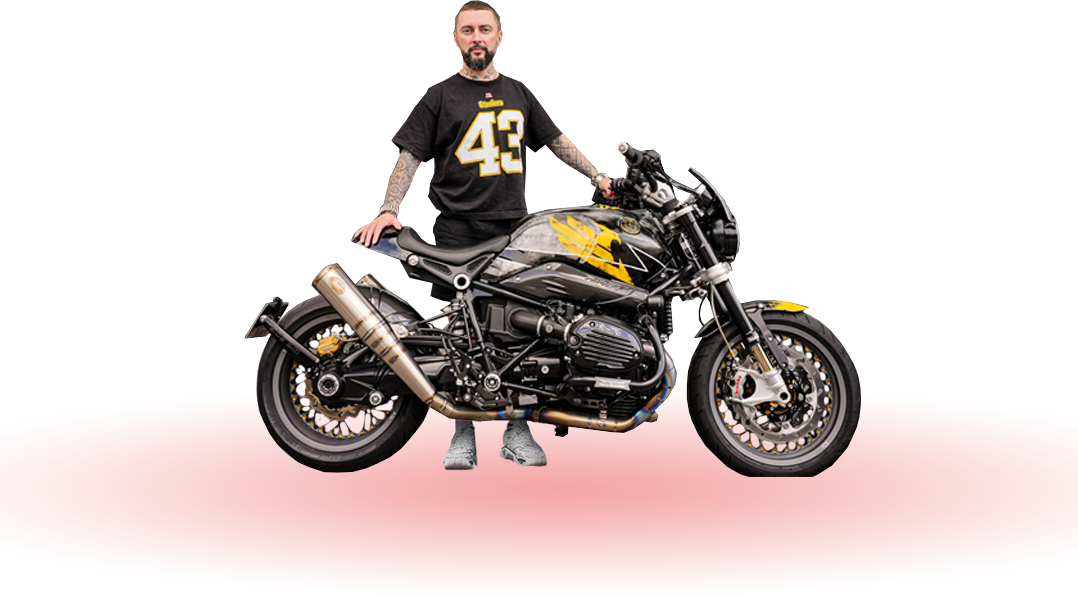
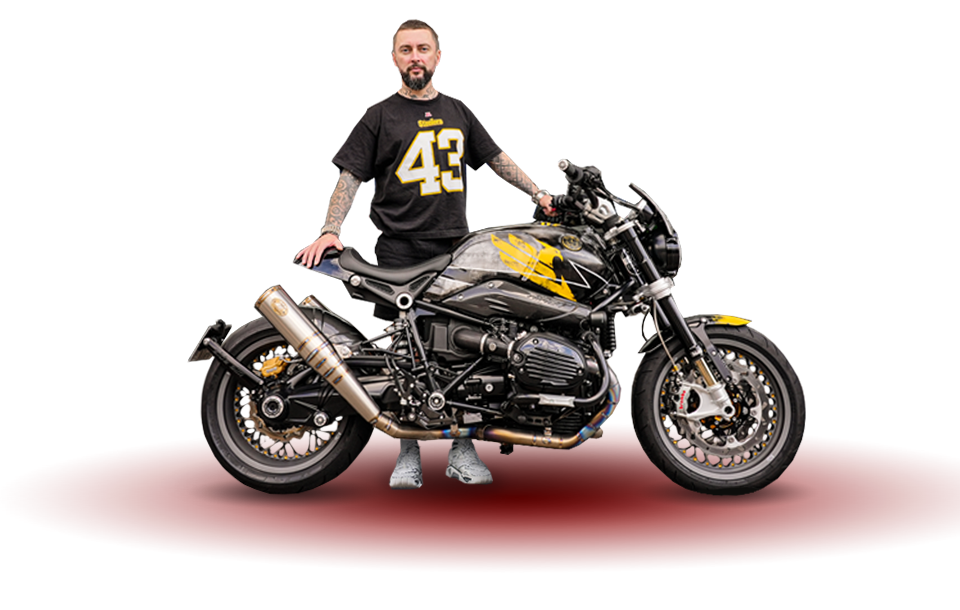
adfs

diff --git a/#source/styles.scss b/#source/styles.scss
@@ -661,9 +661,9 @@ main {
       @media screen and (max-width: 700px) {
         display: block;
         margin: -80px 0 0;
-        transform: translate(-11%, 10%) scale(1.4);
+        transform: translate(-11%, 10%) scale(1.2);
         &._2 {
-          transform: translate(3%, -40%) scale(1.4);
+          transform: translate(-5%, -40%) scale(1.2);
           position: relative;
         }
       }

diff --git a/css/styles.css b/css/styles.css
@@ -729,10 +729,10 @@ main {
   .our_coaches .slider_item .main_pic {
     display: block;
     margin: -80px 0 0;
-    transform: translate(-11%, 10%) scale(1.4);
+    transform: translate(-11%, 10%) scale(1.2);
   }
   .our_coaches .slider_item .main_pic._2 {
-    transform: translate(3%, -40%) scale(1.4);
+    transform: translate(-5%, -40%) scale(1.2);
     position: relative;
   }
 }
